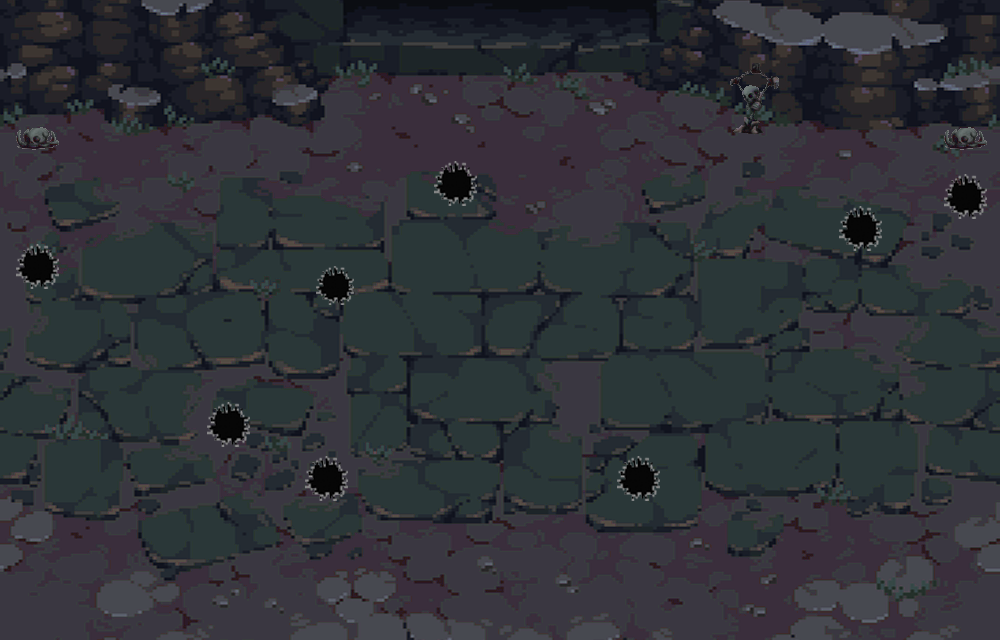
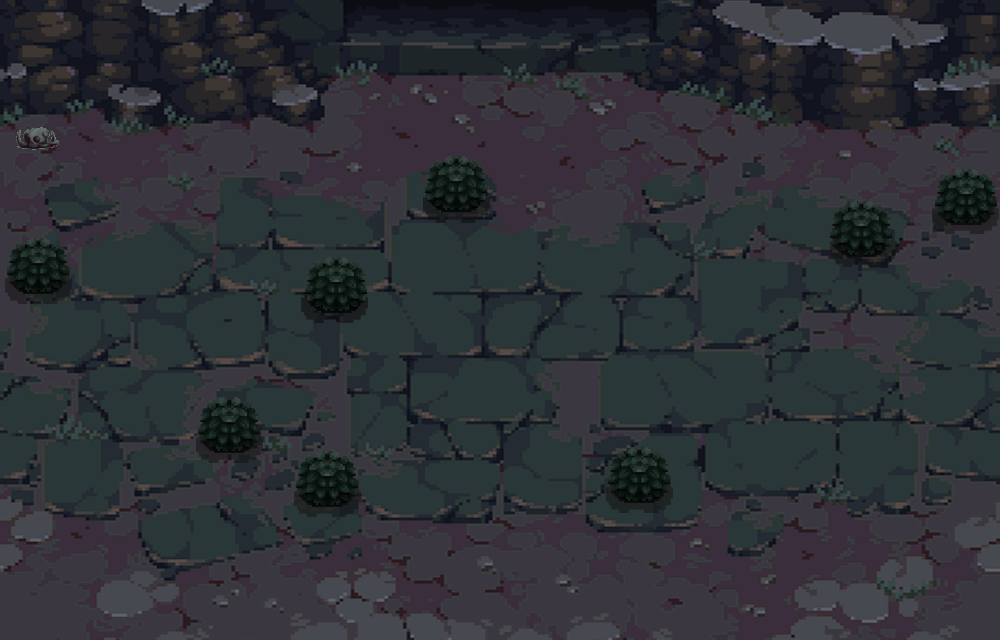
Cambios al puzzle

diff --git a/src/scenes/Scene_puzzle1.js b/src/scenes/Scene_puzzle1.js
@@ -19,7 +19,7 @@ class Scene_puzzle1 extends Phaser.Scene{
 
         this.load.audio("fondopuzzle", ["../sounds/puzzle.mp3"]);
         
-        this.load.audio("sPuzzle7", ["../sounds/sPuzzle7.mp3"]);
+        this.load.audio("golpe", ["../sounds/golpe.mp3"]);
         this.load.audio("sPuzzle8", ["../sounds/sPuzzle8.mp3"]);
         
         this.load.audio("sPuzzle15", ["../sounds/sPuzzle15.mp3"]);
@@ -28,9 +28,6 @@ class Scene_puzzle1 extends Phaser.Scene{
     }
 
     create() {
-        this.registry.events.on('vidasRestantes', (vidas) => {
-            this.data.set('vidas', vidas);
-        });
         
         //console.log(this.data.getAll());
 
@@ -43,7 +40,12 @@ class Scene_puzzle1 extends Phaser.Scene{
         this.cameras.main.on(Phaser.Cameras.Scene2D.Events.FADE_OUT_COMPLETE, () => {
             this.cameras.main.fadeIn(2000);
         });
-        console.log(this.data.getAll());
+        //console.log(this.data.getAll());
+
+        this.registry.events.on('vidasRestantes', (vidas) => {
+            this.data.set('vidas', vidas);
+        });
+
         const keyCodes = Phaser.Input.Keyboard.KeyCodes;
         this.velocidadNexus = 300;
         this.musica();
@@ -120,12 +122,14 @@ class Scene_puzzle1 extends Phaser.Scene{
             h.body.setSize(50,5);
         });
 
+        
         this.nexus = this.physics.add.sprite(30, 600, 'nexus_head').setInteractive().setScale(1.3).setCollideWorldBounds(true);
         this.nexus.body.allowGravity = false;
         this.nexus.body.setSize(20,15);
         this.nexus.body.setOffset(5,10);
         //this.nexus.anims.play('nexus_dead');
         //this.nexus.setFrame('head_6');
+
 
         this.physics.add.collider(this.paredes,this.grupoMonstruos, this.choquePared, null, this);
         this.physics.add.collider(this.fondoder, this.nexus);
@@ -199,7 +203,7 @@ class Scene_puzzle1 extends Phaser.Scene{
     musica(){
         this.fondopuzzle = this.sound.add("fondopuzzle");
         
-        this.golpe = this.sound.add("sPuzzle7");
+        this.golpe = this.sound.add("golpe");
         this.caer = this.sound.add("sPuzzle8");
         this.abajo = this.sound.add("sPuzzle15");
         this.salidaS = this.sound.add('salida');
@@ -236,10 +240,13 @@ class Scene_puzzle1 extends Phaser.Scene{
             onStart: () => {
                 this.caer.play(this.musicConf2);
                 nexus.anims.play('nexus_fall');
+                hoyo.alpha = 1;
             },
             onComplete: () => {
                 this.scene.pause();
-                this.scene.launch('Scene_puzzle1_caida');
+                this.scene.start('Scene_puzzle1_caida', hoyo);
+                //this.registry.events.emit('posCaida', 30, 300);
+                //console.log('evento caída 1');
             }, 
         });
     }
@@ -267,6 +274,12 @@ class Scene_puzzle1 extends Phaser.Scene{
     }
 
     update(time, delta) {
+
+        //Dejar esto en vez del choque y la velocidad para que sigan a nexus.
+        // this.grupoMonstruos.children.iterate( (mC) => {
+        //     this.physics.moveToObject(mC, this.nexus, 200);
+        // } );
+
         if(this.nexusWalkDer.isDown){
             this.nexus.setFrame('head_10');
             this.nexus.body.velocity.x = this.velocidadNexus;

diff --git a/src/scenes/Scene_puzzle1_caida.js b/src/scenes/Scene_puzzle1_caida.js
@@ -5,14 +5,18 @@ class Scene_puzzle1_caida extends Phaser.Scene{
         });
     }
 
-    init() {
+    init(hoyo) {
         console.log('Escena del primer puzzle, caida');
+        console.log(hoyo.y);
+        this.data.set('X', hoyo.x);
+        this.data.set('Y', hoyo.y);
     }
     preload(){
         this.load.path = './assets/puzzle1/';
         this.load.image(['fondoCaida', 'puerta']);
     }
     create() {
+        
         this.cameras.main.setViewport(0, 0, 1000, 640)
         .fadeOut(2000)
         .shake(2000, 0.01)
@@ -23,6 +27,9 @@ class Scene_puzzle1_caida extends Phaser.Scene{
             this.cameras.main.fadeIn(2000);
         });
         const keyCodes = Phaser.Input.Keyboard.KeyCodes;
+
+
+
         this.velocidadNexus = 300;
         this.musica();
         this.fondo = this.add.image(500, 320, 'fondoCaida');
@@ -30,8 +37,10 @@ class Scene_puzzle1_caida extends Phaser.Scene{
         this.puerta = this.physics.add.image(496.5, 48.5, 'puerta').setImmovable(true);
         this.puerta.body.allowGravity = false;
 
-        this.nexus = this.physics.add.sprite(30, 600, 'nexus_head').setInteractive().setScale(1.3).setCollideWorldBounds(true);
+        this.nexus = this.physics.add.sprite(this.data.list.X, this.data.list.Y, 'nexus_head').setInteractive().setScale(1.3).setCollideWorldBounds(true);
         this.nexus.body.allowGravity = false;
+
+        
 
         this.physics.add.collider(this.puerta,this.nexus, this.subir, null, this);
 
@@ -44,7 +53,7 @@ class Scene_puzzle1_caida extends Phaser.Scene{
     musica(){
         this.fondopuzzle = this.sound.add("fondopuzzle");
         
-        this.golpe = this.sound.add("sPuzzle7");
+        this.golpe = this.sound.add("golpe");
         this.caer = this.sound.add("sPuzzle8");
         this.abajo = this.sound.add("sPuzzle15");
         this.subida = this.sound.add('salida');
@@ -76,7 +85,7 @@ class Scene_puzzle1_caida extends Phaser.Scene{
             },
             onComplete: () => {
                 nexus.body.enable = true;
-                this.scene.stop();
+                this.scene.pause();
                 this.scene.start('Scene_puzzle1');
                 //nexus.alpha = 1;
             }, 

diff --git a/src/scenes/Scene_estado.js b/src/scenes/Scene_estado.js
@@ -43,16 +43,16 @@ class Scene_estado extends Phaser.Scene{
         // });
 
         this.registry.events.on('recogeMoneda', (valorMoneda) => {
-            console.log("Recibe moneda");
+            //console.log("Recibe moneda");
             this.data.list.score+=valorMoneda;
             this.scoreText.setText(this.data.list.score);
             //console.log('Se ha emitido el evento score = ', this.score);
         });
 
         this.registry.events.on('menosVida', () => {
-            console.log("Recibe muerte");
+            //console.log("Recibe muerte");
             this.data.list.vidas--;
-            console.log(this.data.list.vidas);
+            //console.log(this.data.list.vidas);
             this.grupoV.getChildren()[this.data.list.vidas].destroy();
             if(this.data.list.vidas <= 0){
                 this.scene.start('Scene_gameOver');

diff --git a/src/scenes/Scene_1.js b/src/scenes/Scene_1.js
@@ -410,7 +410,7 @@ class Scene_1 extends Phaser.Scene{
 
     recoger(nexus, dracmas)
     {
-        console.log("Emite moneda");
+    //console.log("Emite moneda");
        dracmas.destroy();
        this.data.list.dracmas += 20;
        //console.log(this.score);
@@ -508,7 +508,7 @@ class Scene_1 extends Phaser.Scene{
             //Agregar cámar o r something
             this.registry.events.emit('vidasRestantes', this.data.list.vidas);
             this.scene.stop();
-            this.scene.launch('Scene_puzzle1');
+            //this.scene.launch('Scene_puzzle1');
             this.scene.transition({
                 target: 'Scene_puzzle1',
                 duration: 1000,

diff --git a/index.html b/index.html
@@ -4,7 +4,7 @@
     <meta charset="UTF-8">
     <meta name="viewport" content="width=device-width, initial-scale=1.0">
     <meta http-equiv="X-UA-Compatible" content="ie=edge">
-    <title>Practica 09 con Phaser</title>
+    <title>The truth of Nexus</title>
     <script src="./node_modules/phaser/dist/phaser.min.js"></script>
     <script src="./src/main.js" type="module"></script>
 </head>
